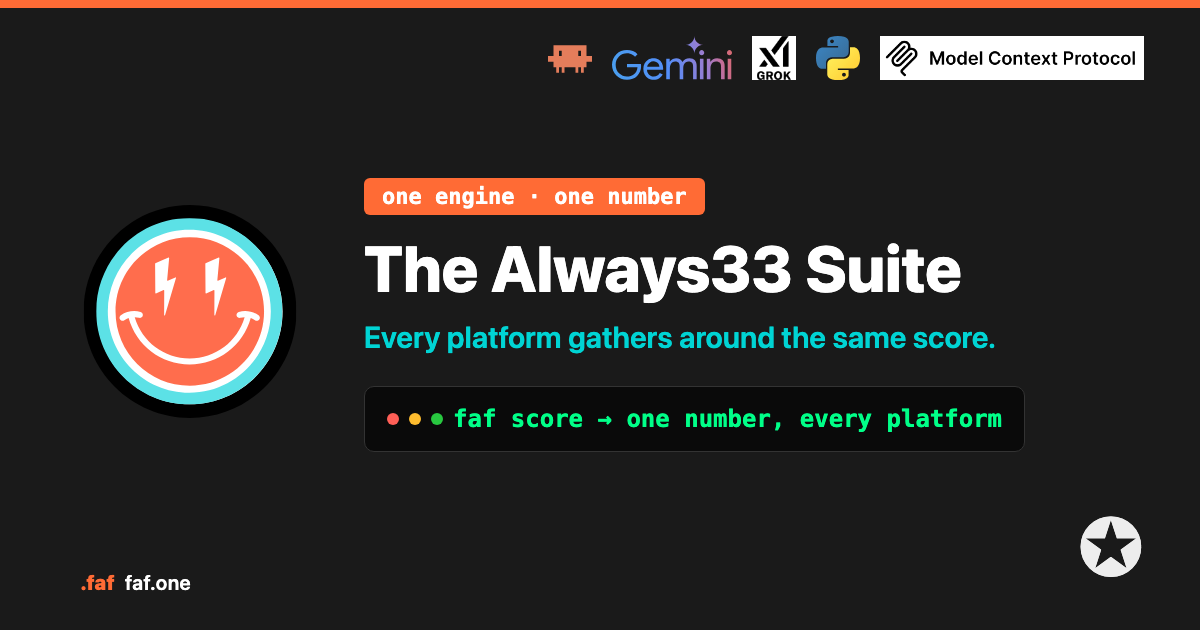
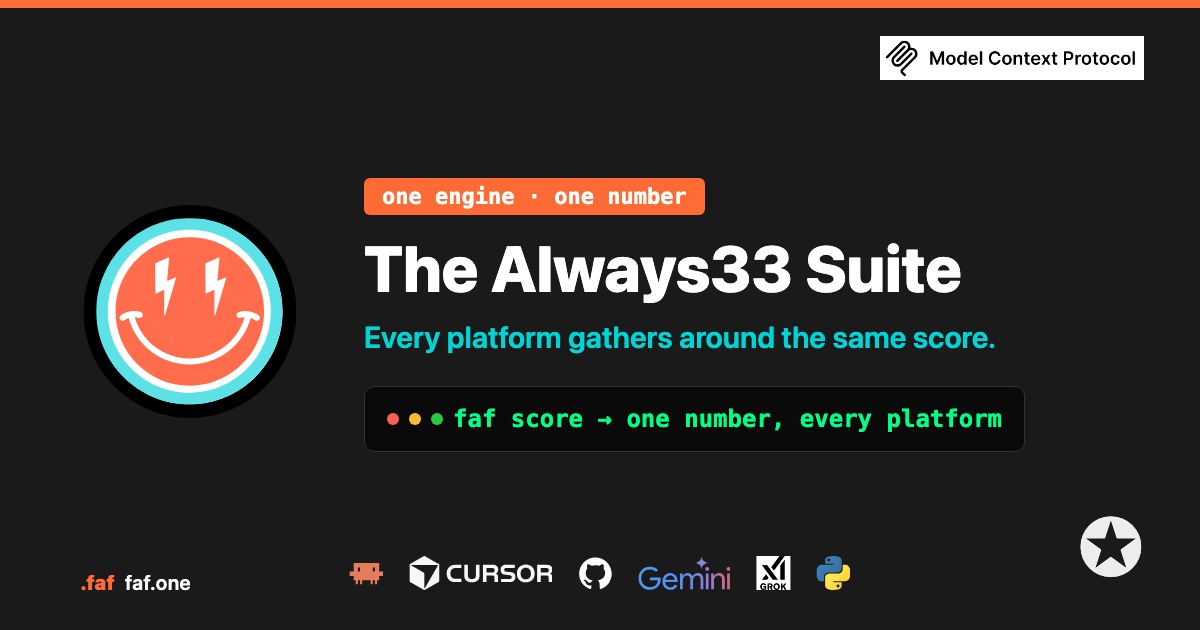
blog(always33): copy edits, black Plain English bar, platform strip on hero
- In Plain English: black side bar and label; worst-case note; slotignored
  slots do not score; New state claims the same score, checked by tests
- Root section: project.faf is to context what package.json is to dependencies
- Hero: MCP chip stays top right; Claude Code, Cursor, GitHub, Gemini, Grok,
  Python strip moves to the bottom centre

Changed region(s): [[0.2775, 0.8746, 0.7092, 0.9349], [0.4625, 0.0603, 0.74, 0.1508]]

diff --git a/src/routes/blog/always33/+page.svelte b/src/routes/blog/always33/+page.svelte
@@ -84,17 +84,17 @@ Comments · suggestions welcome.`;
 				<p class="plain-label">In Plain English</p>
 				<p>
 					<strong>Old state.</strong> FAF grew one tool at a time. Each tool learned to score a
-					project on its own, and they did not always agree. The same file could read 64 in one
+					project on its own, and they did not always agree. In the worst case noted, the same file could read 64 in one
 					place and 100 in another.
 				</p>
 				<p>
 					<strong>Fix.</strong> One engine underneath all of them. It scores every file against
 					the same 33 slots. Slots a project doesn't use are marked <code>slotignored</code>, and
-					drop out of the count.
+					do not score.
 				</p>
 				<p>
-					<strong>New state.</strong> One number, wherever you ask. If two FAF tools ever
-					disagree about your project, one of them is wrong, and the tests say which.
+					<strong>New state.</strong> One number, wherever you ask. Every FAF tool gives the same file
+					the same score, and the tests check it on every release.
 				</p>
 			</div>
 		</section>
@@ -116,6 +116,9 @@ Comments · suggestions welcome.`;
 				what the project <em>is</em>, for any AI. It sits between the manifest and the prose, and
 				the alphabet put it there.
 			</p>
+			<blockquote class="pull">
+				<code>project.faf</code> is to context what <code>package.json</code> is to dependencies.
+			</blockquote>
 			<p>
 				Timing matters. You can't easily change your code trees once they've grown. If AI starts
 				coding from guesses, the guesses become branches, and the branches become the project.
@@ -361,7 +364,11 @@ Comments · suggestions welcome.`;
 		font-weight: 800;
 		letter-spacing: 0.06em;
 		text-transform: uppercase;
-		color: #1d8348;
+		color: #1a1a1a;
+	}
+	/* In Plain English is black and white; the green stays on the TL;DR */
+	.lead.plain-english {
+		border-left-color: #1a1a1a;
 	}
 	.plain-english p {
 		margin: 0 0 0.85rem;
@@ -465,6 +472,15 @@ Comments · suggestions welcome.`;
 		padding: 0;
 	}
 
+	.pull {
+		margin: 1.75rem 0;
+		padding: 0.25rem 0 0.25rem 1.25rem;
+		border-left: 4px solid #1a1a1a;
+		font-size: 1.3rem;
+		font-weight: 700;
+		line-height: 1.5;
+		color: #1a1a1a;
+	}
 	.insight-box {
 		background: #f3f9f5;
 		color: #1a1a1a;
